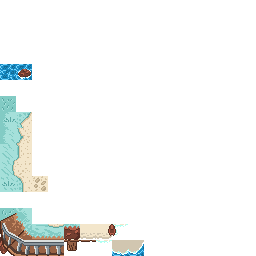
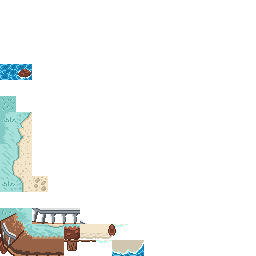
add: logica de camadas

Changed region(s): [[0.125, 0.8125, 0.3438, 0.875], [0.0625, 0.9062, 0.25, 1.0]]

diff --git a/src/components/MapRenderer.jsx b/src/components/MapRenderer.jsx
@@ -7,79 +7,80 @@ export const MapRenderer = ({ mapData, tileSize }) => {
 
   return (
     <>
-      <div
-        className="SceneMap"
-        style={{
-          gridTemplateColumns: `repeat(${colunasDoMapa}, ${tamanhoDoBloco}px)`,
-          gridTemplateRows: `repeat(${linhasDoMapa}, ${tamanhoDoBloco}px)`,
-          width: `${colunasDoMapa * tamanhoDoBloco}px`,
-          height: `${linhasDoMapa * tamanhoDoBloco}px`,
-        }}
-      >
-        {mapData.layers.map((layerE, layerI) => {
-          const layer = layerI + 1;
+      {mapData.layers.map((layerE, layerI) => {
+        return (
+          <div
+            key={layerI}
+            className="MapLayer"
+            style={{
+              width: `${colunasDoMapa * tamanhoDoBloco}px`,
+              height: `${linhasDoMapa * tamanhoDoBloco}px`,
 
-          return layerE.data.map((data, index) => {
-            const column = (index % colunasDoMapa) + 1;
-            const row = Math.floor(index / colunasDoMapa) + 1;
+              gridTemplateColumns: `repeat(${colunasDoMapa}, ${tamanhoDoBloco}px)`,
+              gridTemplateRows: `repeat(${linhasDoMapa}, ${tamanhoDoBloco}px)`,
+              zIndex: (layerI + 1) * 10,
+            }}
+          >
+            {layerE.data.map((data, index) => {
+              const column = (index % colunasDoMapa) + 1;
+              const row = Math.floor(index / colunasDoMapa) + 1;
 
-            let spriteSheetColumns;
-            let spriteSheetUrl;
-            let transformStyle = "";
+              let spriteSheetColumns;
+              let spriteSheetUrl;
+              let transformStyle = "";
 
-            if (data == 0) {
+              if (data == 0) {
+                return (
+                  <div
+                    key={index}
+                    style={{
+                      backgroundColor: "transparent",
+                      gridColumnStart: column,
+                      gridRowStart: row,
+                    }}
+                  ></div>
+                );
+              }
+
+              mapData.tilesets.forEach((options) => {
+                if (data >= options.firstgid) {
+                  spriteSheetColumns = options.columns;
+                  spriteSheetUrl = options.image;
+                }
+              });
+
+              const realData = data & 0xffff;
+
+              const flipHorizontal = (data & 0x80000000) !== 0;
+              const flipVertical = (data & 0x40000000) !== 0;
+              const flipDiagonal = (data & 0x20000000) !== 0;
+
+              if (flipHorizontal) transformStyle += "scaleX(-1) ";
+              if (flipVertical) transformStyle += "scaleY(-1) ";
+              if (flipDiagonal) transformStyle += "rotate(-90deg) scaleX(-1) ";
+
+              const posX = ((realData % spriteSheetColumns) - 1) * 16;
+              const posY = Math.floor(realData / spriteSheetColumns) * 16;
+
               return (
                 <div
                   key={index}
                   style={{
-                    zIndex: layer,
-                    backgroundColor: "transparent",
+                    backgroundImage: `url(${spriteSheetUrl})`,
+                    imageRendering: "pixelated",
+                    backgroundPosition: `-${posX}px -${posY}px`,
+                    transformOrigin: "center",
+                    transform: transformStyle.trim(),
+                    backgroundRepeat: "no-repeat",
                     gridColumnStart: column,
                     gridRowStart: row,
                   }}
                 ></div>
               );
-            }
-
-            mapData.tilesets.forEach((options) => {
-              if (data >= options.firstgid) {
-                spriteSheetColumns = options.columns;
-                spriteSheetUrl = options.image;
-              }
-            });
-
-            const realData = data & 0xffff;
-
-            const flipHorizontal = (data & 0x80000000) !== 0;
-            const flipVertical = (data & 0x40000000) !== 0;
-            const flipDiagonal = (data & 0x20000000) !== 0;
-
-            if (flipHorizontal) transformStyle += "scaleX(-1) ";
-            if (flipVertical) transformStyle += "scaleY(-1) ";
-            if (flipDiagonal) transformStyle += "rotate(-90deg) scaleX(-1) ";
-
-            const posX = ((realData % spriteSheetColumns) - 1) * 16;
-            const posY = Math.floor(realData / spriteSheetColumns) * 16;
-
-            return (
-              <div
-                key={index}
-                style={{
-                  zIndex: layer,
-                  backgroundImage: `url(${spriteSheetUrl})`,
-                  imageRendering: "pixelated",
-                  backgroundPosition: `-${posX}px -${posY}px`,
-                  transformOrigin: "center",
-                  transform: transformStyle.trim(),
-                  backgroundRepeat: "no-repeat",
-                  gridColumnStart: column,
-                  gridRowStart: row,
-                }}
-              ></div>
-            );
-          });
-        })}
-      </div>
+            })}
+          </div>
+        );
+      })}
     </>
   );
 };

diff --git a/src/components/Player.jsx b/src/components/Player.jsx
@@ -6,13 +6,12 @@ export const Player = ({ posX, posY, tileSize }) => {
   const offsetY = tileSize;
 
   return (
-    <>
-      <div
-        className="PlayerContainer"
-        style={{
-          transform: `translate3d(${visualX}px, ${visualY - offsetY}px, 0)`,
-        }}
-      />
-    </>
+    <div
+      className="PlayerContainer"
+      style={{
+        transform: `translate3d(${visualX}px, ${visualY - offsetY}px, 0)`,
+        zIndex: 25,
+      }}
+    />
   );
 };

diff --git a/src/components/styles.css b/src/components/styles.css
@@ -1,12 +1,12 @@
-.SceneMap {
+.MapLayer {
   display: grid;
+  position: absolute;
 }
 
 .PlayerContainer {
   position: absolute;
   width: 16px;
   height: 32px;
-  z-index: 10;
   background-color: red;
   transform-origin: center center;
 }